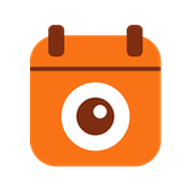
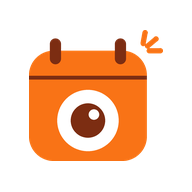
ajsutes layout

Changed region(s): [[0.125, 0.125, 0.875, 0.875]]

diff --git a/AgendaFotografo.WebSPA/src/app/modules/publico/evento-publico/evento-publico.component.html b/AgendaFotografo.WebSPA/src/app/modules/publico/evento-publico/evento-publico.component.html
@@ -9,7 +9,7 @@
 
         <!-- Indisponível -->
         <div *ngIf="estado === 'indisponivel'" role="alert" class="flex flex-col items-center gap-3 py-12 text-center">
-            <img src="assets/images/logo/logo.png" class="w-40" alt="Agenda Fotógrafo">
+            <img src="assets/images/logo/logo.png" class="w-32" alt="quemclica">
             <mat-icon class="icon-size-10 text-secondary" svgIcon="heroicons_outline:link-slash"></mat-icon>
             <h1 class="text-xl font-bold m-0">Link indisponível</h1>
             <p class="text-secondary m-0">Peça o link atualizado ao coordenador.</p>
@@ -17,7 +17,7 @@
 
         <!-- Erro de rede ou limite -->
         <div *ngIf="estado === 'erro'" role="alert" class="flex flex-col items-center gap-3 py-12 text-center">
-            <img src="assets/images/logo/logo.png" class="w-40" alt="Agenda Fotógrafo">
+            <img src="assets/images/logo/logo.png" class="w-32" alt="quemclica">
             <mat-icon class="icon-size-10 text-secondary" svgIcon="heroicons_outline:exclamation-triangle"></mat-icon>
             <p class="text-secondary m-0">{{ mensagemErroPagina }}</p>
             <button mat-flat-button color="primary" type="button" (click)="tentarDeNovo()">Tentar de novo</button>
@@ -25,7 +25,7 @@
 
         <!-- Código -->
         <form *ngIf="estado === 'codigo'" class="flex flex-col items-center gap-4 py-10 text-center" (ngSubmit)="entrar()" novalidate>
-            <img src="assets/images/logo/logo.png" class="w-40" alt="Agenda Fotógrafo">
+            <img src="assets/images/logo/logo.png" class="w-32" alt="quemclica">
             <h1 class="text-2xl font-bold m-0">Digite o código do evento</h1>
             <p class="text-secondary m-0">São 4 números, enviados junto com o link.</p>
 
@@ -47,7 +47,7 @@
         <ng-container *ngIf="estado === 'evento' && evento">
             <!-- Marca -->
             <div class="flex items-center justify-center pt-1">
-                <img src="assets/images/logo/logo.png" class="h-8 w-auto" alt="Agenda Fotógrafo">
+                <img src="assets/images/logo/logo.png" class="h-8 w-auto" alt="quemclica">
             </div>
 
             <!-- 1. Cabeçalho (faixa na cor principal, como os cabeçalhos do Fuse) -->

diff --git a/AgendaFotografo.WebSPA/src/app/layout/common/instalar-app/instalar-app.component.ts b/AgendaFotografo.WebSPA/src/app/layout/common/instalar-app/instalar-app.component.ts
@@ -28,7 +28,7 @@ export function marcarInstalarAppVisto(): void {
 }
 
 /**
- * Convite "Use o Agenda Fotógrafo como aplicativo", mostrado como item no topo do painel do sino de avisos (não é mais faixa no cabeçalho).
+ * Convite "Use o quemclica como aplicativo", mostrado como item no topo do painel do sino de avisos (não é mais faixa no cabeçalho).
  * Fica no painel enquanto o sistema roda no navegador comum e some sozinho dentro do app instalado. Conta 1 no sino só até a
  * primeira abertura do painel (ver `instalarAppPendente` / `marcarInstalarAppVisto`); depois fica lá, sem contar.
  */
@@ -40,7 +40,7 @@ export function marcarInstalarAppVisto(): void {
     <div *ngIf="visivel" class="flex items-start gap-3 px-4 py-3 bg-primary-50 border-b border-primary-200 text-primary-900" role="region" aria-label="Instalar o aplicativo">
         <mat-icon class="mt-0.5 shrink-0 text-primary-700" [svgIcon]="'heroicons_outline:device-phone-mobile'"></mat-icon>
         <div class="flex-auto min-w-0 text-sm">
-            <div class="font-semibold">Use o Agenda Fotógrafo como aplicativo</div>
+            <div class="font-semibold">Use o quemclica como aplicativo</div>
             <ng-container>
                 <div *ngIf="plataforma === 'prompt'">Fica na tela inicial do celular e abre em tela cheia, sem a barra do navegador.</div>
                 <ol *ngIf="plataforma === 'ios-safari'" class="mt-1 list-decimal pl-5 space-y-0.5">

diff --git a/AgendaFotografo.WebSPA/src/app/layout/layouts/horizontal/modern/modern.component.html b/AgendaFotografo.WebSPA/src/app/layout/layouts/horizontal/modern/modern.component.html
@@ -10,7 +10,7 @@
             <!-- Logo -->
             <div class="flex items-center h-20 pt-6 px-8 mb-4">
                 <div class="w-full flex justify-center">
-                    <img src="assets/images/logo/logo-branco.png" class="w-44" alt="AgendaFotografo">
+                    <img src="assets/images/logo/logo-branco.png" class="w-36" alt="quemclica">
                 </div>
             </div>
         </ng-container>
@@ -24,7 +24,7 @@
     <div class="menu-topo sticky top-0 flex flex-0 items-center w-full h-16 px-4 md:px-6 z-49 bg-card print:hidden">
         <!-- Marca -->
         <a class="flex items-center shrink-0 mr-4 lg:mr-8 cursor-pointer" [routerLink]="rotaInicio" title="Início">
-            <img src="assets/images/logo/logo.png" class="h-9 sm:h-10 w-auto" alt="AgendaFotografo">
+            <img src="assets/images/logo/logo.png" class="h-9 sm:h-10 w-auto" alt="quemclica">
         </a>
 
         <!-- Menu horizontal (desktop) -->
@@ -54,7 +54,7 @@
     <!-- Rodapé: some abaixo de md -->
     <div class="relative hidden md:flex flex-0 items-center w-full h-14 px-4 md:px-6 z-49 border-t bg-card print:hidden" [ngClass]="{ 'lg:pr-[5.5rem]': assistenteVisivel }">
         <span class="font-medium text-secondary">
-            AgendaFotografo &copy; {{currentYear}}, Todos os Direitos Reservados
+            quemclica &copy; {{currentYear}}, Todos os Direitos Reservados
         </span>
     </div>
 </div>

diff --git a/AgendaFotografo.WebSPA/src/index.html b/AgendaFotografo.WebSPA/src/index.html
@@ -3,7 +3,7 @@
 
 <head>
     <meta charset="utf-8">
-    <title>AgendaFotografo</title>
+    <title>quemclica</title>
     <meta name="description" content="Agenda de equipe para fotógrafos de eventos esportivos">
     <meta name="viewport" content="width=device-width, height=device-height, initial-scale=1.0, minimum-scale=1.0">
     <base href="/">
@@ -14,7 +14,7 @@
     <link rel="apple-touch-icon" href="assets/images/pwa/apple-touch-icon.png">
     <meta name="mobile-web-app-capable" content="yes">
     <meta name="apple-mobile-web-app-capable" content="yes">
-    <meta name="apple-mobile-web-app-title" content="Agenda Fotógrafo">
+    <meta name="apple-mobile-web-app-title" content="quemclica">
 
 
     <!-- Favicon -->
@@ -39,7 +39,7 @@
 
     <!-- Splash screen -->
     <fuse-splash-screen>
-        <img src="assets/images/logo/logo.png" alt="AgendaFotografo" width="200px">
+        <img src="assets/images/logo/logo.png" alt="quemclica" width="166px">
         <div class="spinner">
             <div class="bounce1"></div>
             <div class="bounce2"></div>

diff --git a/AgendaFotografo.WebSPA/src/app/modules/shared/inicio/inicio.component.ts b/AgendaFotografo.WebSPA/src/app/modules/shared/inicio/inicio.component.ts
@@ -8,7 +8,7 @@ import { UsuarioService } from 'app/core/services/usuario.service';
     standalone: true,
     template: `
         <div class="flex flex-col items-center justify-center w-full h-full p-8 gap-4 text-center">
-            <img src="assets/images/logo/logo.png" class="w-56" alt="AgendaFotografo">
+            <img src="assets/images/logo/logo.png" class="w-48" alt="quemclica">
             <h1 class="text-3xl font-bold text-primary">Bem-vindo{{ nome() ? ', ' + nome() : '' }}</h1>
             <p class="text-secondary">Use o menu para navegar pelo sistema.</p>
         </div>

diff --git a/AgendaFotografo.WebSPA/src/app/modules/admin/assinantes/senha-temporaria-dialog/senha-temporaria-dialog.component.ts b/AgendaFotografo.WebSPA/src/app/modules/admin/assinantes/senha-temporaria-dialog/senha-temporaria-dialog.component.ts
@@ -77,7 +77,7 @@ export class SenhaTemporariaDialogComponent implements OnDestroy {
     // Texto pronto para colar no WhatsApp.
     copiarInstrucoes(): void {
         const texto =
-            `Seu acesso ao Agenda Fotógrafo:\n` +
+            `Seu acesso ao quemclica:\n` +
             `Endereço: ${window.location.origin}\n` +
             `Usuário: ${this.dados.email}\n` +
             `Senha temporária: ${this.dados.senha}\n` +

diff --git a/AgendaFotografo.WebSPA/src/app/modules/auth/sign-out/sign-out.component.html b/AgendaFotografo.WebSPA/src/app/modules/auth/sign-out/sign-out.component.html
@@ -3,7 +3,7 @@
         <div class="w-full max-w-80 sm:w-80 mx-auto sm:mx-0">
             <!-- Logo -->
             <div class="w-full  flex justify-center">
-                <img src="assets/images/logo/logo.png" class="w-56" alt="AgendaFotografo">
+                <img src="assets/images/logo/logo.png" class="w-48" alt="quemclica">
             </div>
 
             <!-- Title -->

diff --git a/AgendaFotografo.WebSPA/src/app/modules/auth/sign-in/sign-in.component.html b/AgendaFotografo.WebSPA/src/app/modules/auth/sign-in/sign-in.component.html
@@ -5,7 +5,7 @@
             <!-- Logo -->
 
             <div class="w-full flex justify-center items-center mx-auto">
-                <img src="assets/images/logo/logo.png" class="w-56 sm:w-64" alt="AgendaFotografo">
+                <img src="assets/images/logo/logo.png" class="w-48 sm:w-52" alt="quemclica">
             </div>
 
             <!-- Alert -->

diff --git a/AgendaFotografo.WebApi/Services/Chat/ChatPrompt.cs b/AgendaFotografo.WebApi/Services/Chat/ChatPrompt.cs
@@ -18,7 +18,7 @@ public static class ChatPrompt
     public static string Montar(DateTime agora)
     {
         var sb = new StringBuilder();
-        sb.AppendLine("Você é o Assistente do AgendaFotografo, um sistema de agenda para coordenadores de equipes de fotógrafos de eventos esportivos.");
+        sb.AppendLine("Você é o Assistente do quemclica, um sistema de agenda para coordenadores de equipes de fotógrafos de eventos esportivos.");
         sb.AppendLine("Você lança eventos (por texto ou pela imagem do flyer) e responde perguntas sobre a agenda do coordenador. Para lançar, o coordenador escreve ou cola a mensagem de um evento (por exemplo, do WhatsApp) ou anexa a imagem do flyer, e você monta um rascunho para ele conferir. Você nunca grava nada: quem confirma é o usuário, no card que aparece abaixo da sua resposta. As consultas à agenda são só de leitura.");
         sb.AppendLine();
         sb.AppendLine("Regras:");

diff --git a/AgendaFotografo.WebSPA/CLAUDE.md b/AgendaFotografo.WebSPA/CLAUDE.md
@@ -106,8 +106,8 @@ Os demais módulos entram com seus planos: criar a rota e o item de menu juntos 
 ## Tema e responsividade
 - Cor principal **#F97316** (`customPalettes.principal` no `tailwind.config.js`); apoio **#6B4F3F** (marrom acinzentado derivado). Tema `theme-sistema`
   (ativo em `app.config.ts`). O Fuse calcula o texto sobre a cor principal: sai **escuro** (branco sobre #F97316 só tem ~2,8:1 de contraste).
-- Logo **única e provisória** (ícone calendário/câmera + texto "AGENDA FOTÓGRAFO") em `assets/images/logo/logo.png` (e `logo-branco.png` para o menu escuro do
-  celular), usada em todas as áreas; favicon e fundo do login (gradiente laranja) gerados por script. Trocar quando houver logo/nome definitivos (mesmos nomes de arquivo).
+- Logo **única**, escolhida em 2026-11-10 (ícone "agenda que clica": calendário laranja com argolas e faixa marrons, a lente no meio e o "click!" de três traços laranja saindo do canto superior direito, + texto em duas linhas, "quem." em cima e "clica" embaixo, em Avenir Next Heavy: "quem" em #7C2D12 (branco na `logo-branco.png`), o ponto e "clica" em #F97316; o nome do produto continua "quemclica", sem ponto, nos textos; 347x134 px, por isso as larguras fixas das telas são 83% das da logo de 419 px) em `assets/images/logo/logo.png` (e `logo-branco.png` para o menu escuro do
+  celular), usada em todas as áreas. O mesmo ícone está no favicon (16 a 64 px) e nos ícones do PWA (`assets/images/pwa/`, fundo branco; o maskable com o ícone em 50% por causa da zona segura). Tudo gerado por script (fonte Avenir Next do macOS); cópias em `docs/marca/` (logo, logo branca e o ícone em 512 px). O fundo do login (gradiente laranja) não mudou.
 - Responsivo: breakpoints do Fuse (`sm` 600, `md` 960, `lg` 1280); abaixo de `md` o menu vira gaveta com botão no cabeçalho; login empilha em telas pequenas.
 
 ## Divergências em relação ao Portal
@@ -271,7 +271,7 @@ Só o Assinante vê sino e busca global (o `ModernLayoutComponent` usa `ehAssina
   `ConflitoEscala` -> `/assinante/visao-do-dia?data=<Data>`; Passados sem baixa -> `/assinante/agenda?mes=<mês da Data>`.
 - **Sino** (`layout/common/avisos/`, `<avisos>`; adaptado do `notifications` do Fuse, painel por Overlay/TemplatePortal, tela cheia abaixo de `sm`): contador = `Total` ("99+" no teto), vermelho se `Criticos > 0`, sem número se não há aviso ou nunca carregou (falha transitória mantém o último número);
   painel com "Críticos" e "Atenção" (`app-aviso-item`: ícone, título, descrição e `Detalhes` em etiquetas; clique navega e fecha), estados "Carregando os avisos..." (primeira carga), falha sem lista anterior ("Não foi possível carregar os avisos agora."), falha com lista anterior (nota discreta no topo) e vazio "Tudo em dia.". **Atualiza** ao entrar, ao abrir o painel, depois de `EventoService.alterado$` (debounce 300 ms; toda mudança de evento, escala **e pendência** chama `NotificarAlteracao()`: chip de status, modal de pendência, Ignorar/Desfazer/Restaurar e checklist padrão aplicado) e a cada 5 minutos.
-  No topo do painel fica o convite **"Use o Agenda Fotógrafo como aplicativo"** (`layout/common/instalar-app/`, `<instalar-app>`; antes era uma faixa no cabeçalho): aparece sempre fora do app instalado e some dentro dele (`rodandoComoApp`); soma 1 no contador só até a primeira abertura do painel naquele aparelho (`instalarAppPendente`/`marcarInstalarAppVisto`, localStorage `instalarApp.vistoNoSino`). Como o sino é só do Assinante, o Admin não vê o convite.
+  No topo do painel fica o convite **"Use o quemclica como aplicativo"** (`layout/common/instalar-app/`, `<instalar-app>`; antes era uma faixa no cabeçalho): aparece sempre fora do app instalado e some dentro dele (`rodandoComoApp`); soma 1 no contador só até a primeira abertura do painel naquele aparelho (`instalarAppPendente`/`marcarInstalarAppVisto`, localStorage `instalarApp.vistoNoSino`). Como o sino é só do Assinante, o Admin não vê o convite.
   `app-aviso-item` (`modules/shared/components/aviso-item/`) é compartilhado com o Início.
 - **Busca global** (`layout/common/busca-global/`, `<busca-global [modo]>`; adaptada do `search` do Fuse): só eventos, por `EventoService.GetAllPaginated(1, 8, { busca, ordem: 'desc' })` (`Evento/Listar`), mínimo 2 caracteres, `debounceTime(600)`. `modo="campo"` (caixa no cabeçalho, a partir de `lg`) ou `"barra"` (ícone que abre uma barra sobre o cabeçalho, abaixo de `lg`).
   Resultados: nome, data, cidade e status; Enter (primeira opção ativa) ou clique abre `/assinante/eventos/:id`; a última opção "Ver na Agenda" abre `/assinante/agenda` no mês do primeiro resultado. O valor das opções é só o id; o campo é limpo ao escolher.

diff --git a/CLAUDE.md b/CLAUDE.md
@@ -1,8 +1,8 @@
 # AgendaFotografo
 
 Agenda de equipe para fotógrafos de eventos esportivos (corrida, treino, CrossFit, moto passeio etc.),
-vendida como SaaS para coordenadores de equipes de fotografia. Nome do produto ainda provisório
-(AGENDAFOTOGRAFO). Desenho aprovado: `docs/superpowers/specs/2026-11-05-agendafotografo-design.md`
+vendida como SaaS para coordenadores de equipes de fotografia. Nome comercial: **quemclica**
+(definido em 2026-11-10; substituiu o provisório AGENDAFOTOGRAFO. Só a marca mudou: projetos, namespaces e tabelas continuam `AgendaFotografo.*`, e as constantes de `LinkPublicoSegredos` não podem ser renomeadas, porque isso invalida os links públicos já enviados). Desenho aprovado: `docs/superpowers/specs/2026-11-05-agendafotografo-design.md`
 (leia antes de criar qualquer módulo de negócio).
 
 ## Regra de ouro: estrutura espelhada no Fartec.Portal
@@ -19,7 +19,7 @@ Antes de criar qualquer controller, model, validator, map ou migration, abra o e
 - SPA: **um SPA só, perfis separados por rota** (`/admin/...`, `/assinante/...`; decisão do colaborador). Não criar SPAs por perfil.
 - Modelo de acesso: Assinante + Administração (multi-tenant). Perfis **só `Admin` e `Assinante`**. O Assinante (coordenador) é o tenant e faz login no dia a dia; o Admin (criado pelo seed) cria, ativa e bloqueia assinantes. A equipe de fotógrafos NÃO faz login na v1. Não há `UsuarioAssinante`, permissões granulares nem planos.
 - Cor principal: #F97316 (paleta gerada: ver `tailwind.config.js` do SPA; apoio #6B4F3F)
-- Logo: ainda não existe; o SPA usa uma logo provisória única (ícone + texto) gerada por script, em `src/assets/images/logo/`
+- Logo (escolhida em 2026-11-10, opção "agenda que clica"): calendário laranja com argolas e faixa marrons, a lente no meio e o "click!" (três traços laranja) saindo do canto + texto "quem." / "clica" (o ponto é só da logo; nos textos o nome é "quemclica"), em `src/assets/images/logo/` do SPA; o mesmo ícone no favicon e no PWA. Cópias em `docs/marca/` (logo, logo branca e o ícone em 512 px)
 - Banco: **MySQL** (Pomelo.EntityFrameworkCore.MySql), servidor zeus.fartecsistemas.com.br, banco EduardoDbNaoApagar (credenciais no appsettings.json)
 - Financeiro: nunca (sem valor, pago, repasse ou cliente comercial)
 - Uso em celular e computador (telas responsivas); o link público é mobile-first
